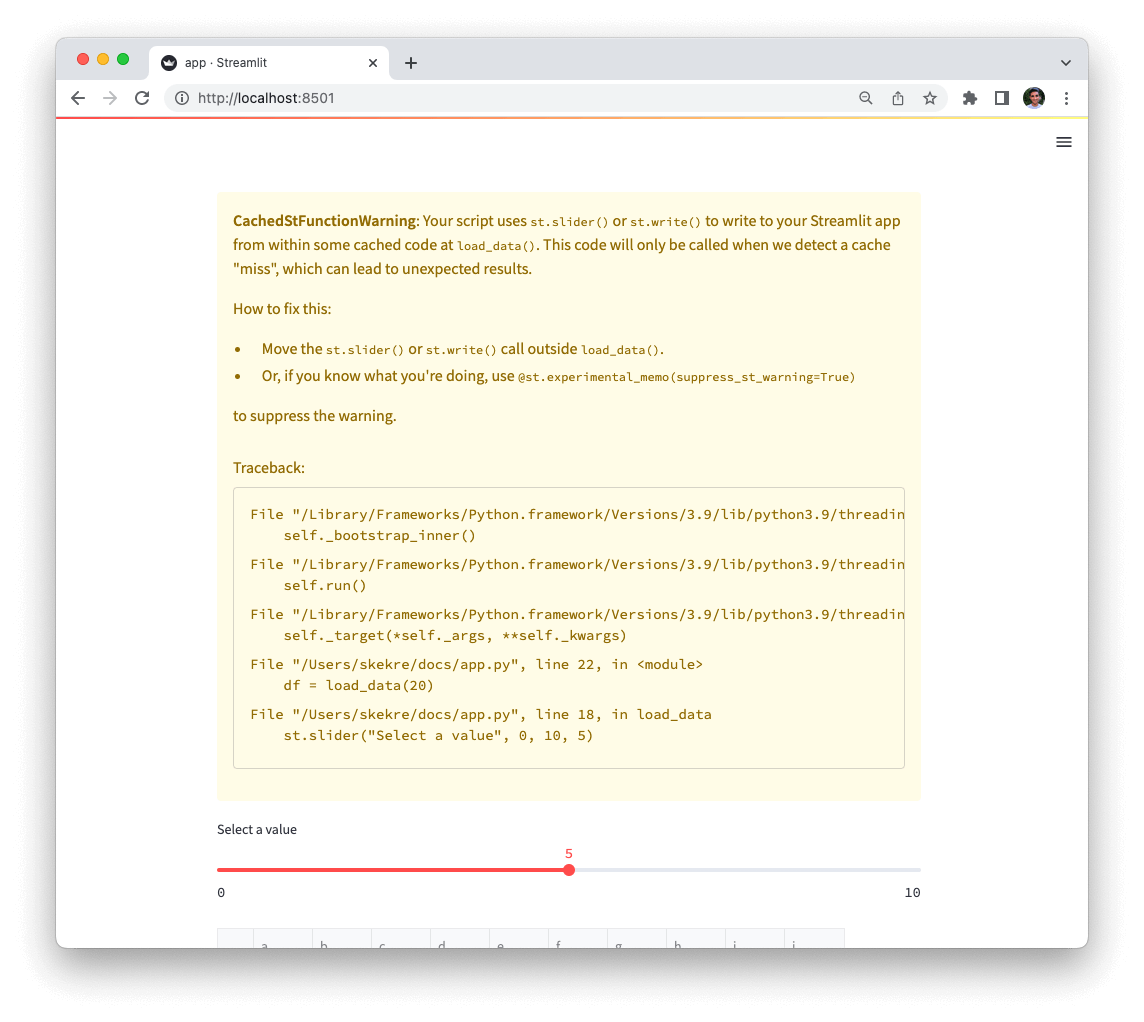
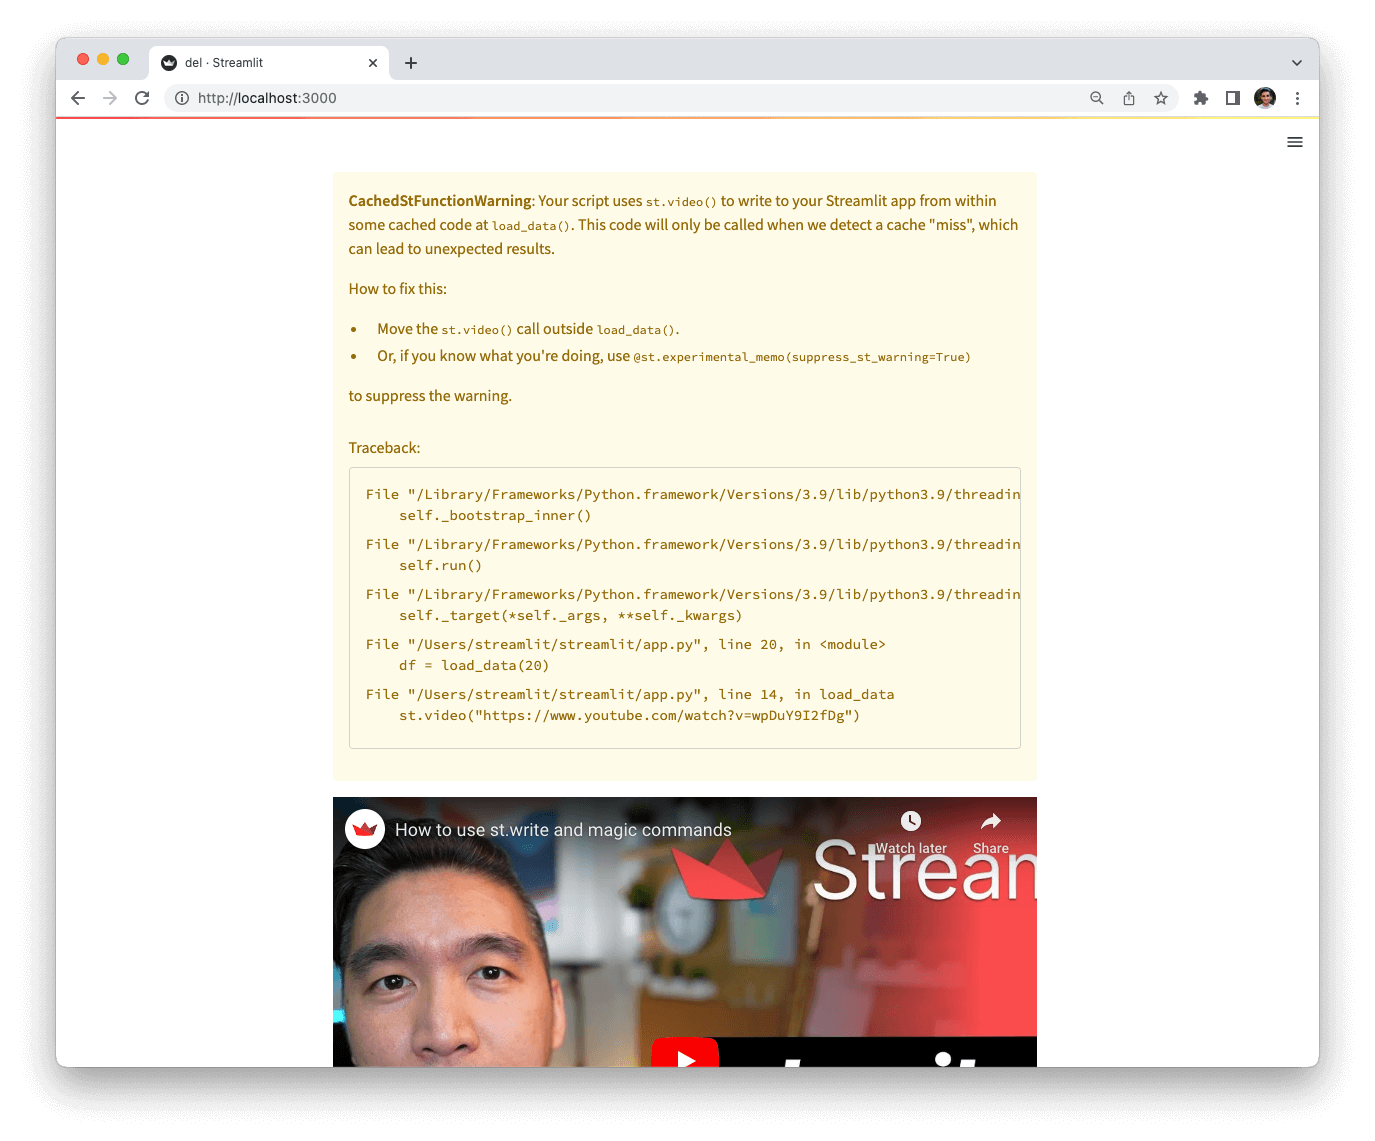
Add docs for cached widget replay

Changed region(s): [[0.0306, 0.0303, 0.979, 0.9403]]

diff --git a/content/library/api/performance/experimental-singleton.md b/content/library/api/performance/experimental-singleton.md
@@ -80,7 +80,7 @@ Supported static `st` elements in cache-decorated functions include:
 - `st.vega_lite_chart`
 - `st.warning`
 
-All other `st` commands, including widgets, forms, and media elements are not supported in cache-decorated functions. If you use them, the code will only be called when we detect a cache "miss", which can lead to unexpected results. Which is why Streamlit will throw a `CachedStFunctionWarning`, like the one below:
+Forms and media elements are not supported in cache-decorated functions. If you use them, the code will only be called when we detect a cache "miss", which can lead to unexpected results. Which is why Streamlit will throw a `CachedStFunctionWarning`, like the one below:
 
 ```python
 import numpy as np
@@ -91,7 +91,8 @@ from transformers import AutoModel
 @st.experimental_singleton
 def get_model(model_type):
     # Contains an unsupported st command
-    st.slider("Select a value", 0, 10, 5) # Streamlit will throw a CachedStFunctionWarning
+    st.video("https://www.youtube.com/watch?v=wpDuY9I2fDg")
+    # Streamlit will throw a CachedStFunctionWarning
 
     # Create a model of the specified type
     return AutoModel.from_pretrained(model_type)
@@ -101,3 +102,97 @@ st.help(bert_model) # Display the model's docstring
 ```
 
 <Image src="/images/cached-st-function-warning-singleton.png" clean />
+
+### Replay input widgets in cache-decorated functions
+
+In addition to static elements, functions decorated with `@st.experimental_singleton` can also contain [input widgets](/library/api-reference/widgets)! Replaying input widgets is disabled by default. To enable it, you can set the `experimental_allow_widgets` parameter for `@st.experimental_singleton` to `True`. The example below enables widget replaying, and shows the use of a checkbox widget within a cache-decorated function.
+
+```python
+import streamlit as st
+
+# Enable widget replay
+@st.experimental_singleton(experimental_allow_widgets=True)
+def func():
+    # Contains an input widget
+    st.checkbox("Works!")
+
+func()
+```
+
+If the cache decorated function contains input widgets, but `experimental_allow_widgets` is set to `False` or unset, Streamlit will throw a `CachedStFunctionWarning`, like the one below:
+
+```python
+import streamlit as st
+
+# Widget replay is disabled by default
+@st.experimental_singleton
+def func():
+    # Streamlit will throw a CachedStFunctionWarning
+    st.checkbox("Doesn't work")
+
+func()
+```
+
+<Image src="/images/cached-st-function-warning-widgets.png" clean />
+
+### How widget replay works
+
+Let's demystify how widget replay in cache-decorated functions works and gain a conceptual understanding. Widget values are treated as additional inputs to the function, and are used to determine whether the function should be executed or not. Consider the following example:
+
+```python
+import streamlit as st
+
+@st.experimental_singleton(experimental_allow_widgets=True)
+def plus_one(x):
+    y = x + 1
+    if st.checkbox("Nuke the value 💥"):
+        st.write("Value was nuked, returning 0")
+        y = 0
+    return y
+
+st.write(plus_one(2))
+```
+
+The `plus_one` function takes an integer `x` as input, and returns `x + 1`. The function also contains a checkbox widget, which is used to "nuke" the value of `x`. i.e. the return value of `plus_one` depends on the state of the checkbox: if it is checked, the function returns `0`, otherwise it returns `3`.
+
+In order to know which value the cache should return (in case of a cache hit), Streamlit treats the checkbox state (checked / unchecked) as an additional input to the function `plus_one` (just like `x`). If the user checks the checkbox (thereby changing its state), we look up the cache for the same value of `x` (2) and the same checkbox state (checked). If the cache contains a value for this combination of inputs, we return it. Otherwise, we execute the function and store the result in the cache.
+
+Let's now understand how enabling and disabling widget replay changes the behavior of the function.
+
+#### Widget replay disabled
+
+- Widgets in cached functions throw a `CachedStFunctionWarning` and are ignored.
+- Other static elements in cached functions replay as expected.
+
+#### Widget replay enabled
+
+- Widgets in cached functions don't lead to a warning, and are replayed as expected.
+- Interacting with a widget in a cached function will cause the function to be executed again, and the cache to be updated.
+- Widgets in cached functions retain their state across reruns.
+- Each unique combination of widget values is treated as a separate input to the function, and is used to determine whether the function should be executed or not. i.e. Each unique combination of widget values has its own cache entry; the cached function runs the first time and the saved value is used afterwards.
+- Calling a cached function multiple times in one script run with the same arguments triggers a `DuplicateWidgetID` error.
+- If the arguments to a cached function change, widgets from that function that render again retain their state.
+- Changing the source code of a cached function invalidates the cache.
+- Both [`st.experimental_singleton`](/library/api-reference/performance/st.experimental_singleton) and [`st.experimental_memo`](/library/api-reference/performance/st.experimental_memo) support widget replay.
+- Fundamentally, the behavior of a function with (supported) widgets in it doesn't change when it is decorated with `@st.experimental_singleton` or `@st.experimental_memo`. The only difference is that the function is only executed when we detect a cache "miss".
+
+### Supported widgets
+
+All input widgets are supported in cache-decorated functions. The following is an exhaustive list of supported widgets:
+
+- `st.button`
+- `st.camera_input`
+- `st.checkbox`
+- `st.color_picker`
+- `st.date_input`
+- `st.download_button`
+- `st.file_uploader`
+- `st.multiselect`
+- `st.number_input`
+- `st.radio`
+- `st.selectbox`
+- `st.select_slider`
+- `st.slider`
+- `st.text_area`
+- `st.text_input`
+- `st.time_input`

diff --git a/content/library/api/performance/experimental-memo.md b/content/library/api/performance/experimental-memo.md
@@ -103,7 +103,7 @@ Supported static `st` elements in cache-decorated functions include:
 - `st.vega_lite_chart`
 - `st.warning`
 
-All other `st` commands, including widgets, forms, and media elements are not supported in cache-decorated functions. If you use them, the code will only be called when we detect a cache "miss", which can lead to unexpected results. Which is why Streamlit will throw a `CachedStFunctionWarning`, like the one below:
+Forms and media elements are not supported in cache-decorated functions. If you use them, the code will only be called when we detect a cache "miss", which can lead to unexpected results. Which is why Streamlit will throw a `CachedStFunctionWarning`, like the one below:
 
 ```python
 import numpy as np
@@ -117,7 +117,8 @@ def load_data(rows):
         columns=["a", "b", "c", "d", "e", "f", "g", "h", "i", "j"],
     )
     # Contains an unsupported st command
-    st.slider("Select a value", 0, 10, 5) # Streamlit will throw a CachedStFunctionWarning
+    st.video("https://www.youtube.com/watch?v=wpDuY9I2fDg")
+    # Streamlit will throw a CachedStFunctionWarning
 
     return chart_data
 
@@ -126,3 +127,97 @@ st.dataframe(df)
 ```
 
 <Image src="/images/cached-st-function-warning.png" clean />
+
+### Replay input widgets in cache-decorated functions
+
+In addition to static elements, functions decorated with `@st.experimental_memo` can also contain [input widgets](/library/api-reference/widgets)! Replaying input widgets is disabled by default. To enable it, you can set the `experimental_allow_widgets` parameter for `@st.experimental_memo` to `True`. The example below enables widget replaying, and shows the use of a checkbox widget within a cache-decorated function.
+
+```python
+import streamlit as st
+
+# Enable widget replay
+@st.experimental_memo(experimental_allow_widgets=True)
+def func():
+    # Contains an input widget
+    st.checkbox("Works!")
+
+func()
+```
+
+If the cache decorated function contains input widgets, but `experimental_allow_widgets` is set to `False` or unset, Streamlit will throw a `CachedStFunctionWarning`, like the one below:
+
+```python
+import streamlit as st
+
+# Widget replay is disabled by default
+@st.experimental_memo
+def func():
+    # Streamlit will throw a CachedStFunctionWarning
+    st.checkbox("Doesn't work")
+
+func()
+```
+
+<Image src="/images/cached-st-function-warning-widgets.png" clean />
+
+### How widget replay works
+
+Let's demystify how widget replay in cache-decorated functions works and gain a conceptual understanding. Widget values are treated as additional inputs to the function, and are used to determine whether the function should be executed or not. Consider the following example:
+
+```python
+import streamlit as st
+
+@st.experimental_memo(experimental_allow_widgets=True)
+def plus_one(x):
+    y = x + 1
+    if st.checkbox("Nuke the value 💥"):
+        st.write("Value was nuked, returning 0")
+        y = 0
+    return y
+
+st.write(plus_one(2))
+```
+
+The `plus_one` function takes an integer `x` as input, and returns `x + 1`. The function also contains a checkbox widget, which is used to "nuke" the value of `x`. i.e. the return value of `plus_one` depends on the state of the checkbox: if it is checked, the function returns `0`, otherwise it returns `3`.
+
+In order to know which value the cache should return (in case of a cache hit), Streamlit treats the checkbox state (checked / unchecked) as an additional input to the function `plus_one` (just like `x`). If the user checks the checkbox (thereby changing its state), we look up the cache for the same value of `x` (2) and the same checkbox state (checked). If the cache contains a value for this combination of inputs, we return it. Otherwise, we execute the function and store the result in the cache.
+
+Let's now understand how enabling and disabling widget replay changes the behavior of the function.
+
+#### Widget replay disabled
+
+- Widgets in cached functions throw a `CachedStFunctionWarning` and are ignored.
+- Other static elements in cached functions replay as expected.
+
+#### Widget replay enabled
+
+- Widgets in cached functions don't lead to a warning, and are replayed as expected.
+- Interacting with a widget in a cached function will cause the function to be executed again, and the cache to be updated.
+- Widgets in cached functions retain their state across reruns.
+- Each unique combination of widget values is treated as a separate input to the function, and is used to determine whether the function should be executed or not. i.e. Each unique combination of widget values has its own cache entry; the cached function runs the first time and the saved value is used afterwards.
+- Calling a cached function multiple times in one script run with the same arguments triggers a `DuplicateWidgetID` error.
+- If the arguments to a cached function change, widgets from that function that render again retain their state.
+- Changing the source code of a cached function invalidates the cache.
+- Both [`st.experimental_memo`](/library/api-reference/performance/st.experimental_memo) and [`st.experimental_singleton`](/library/api-reference/performance/st.experimental_singleton) support widget replay.
+- Fundamentally, the behavior of a function with (supported) widgets in it doesn't change when it is decorated with `@st.experimental_memo` or `@st.experimental_singleton`. The only difference is that the function is only executed when we detect a cache "miss".
+
+### Supported widgets
+
+All input widgets are supported in cache-decorated functions. The following is an exhaustive list of supported widgets:
+
+- `st.button`
+- `st.camera_input`
+- `st.checkbox`
+- `st.color_picker`
+- `st.date_input`
+- `st.download_button`
+- `st.file_uploader`
+- `st.multiselect`
+- `st.number_input`
+- `st.radio`
+- `st.selectbox`
+- `st.select_slider`
+- `st.slider`
+- `st.text_area`
+- `st.text_input`
+- `st.time_input`
